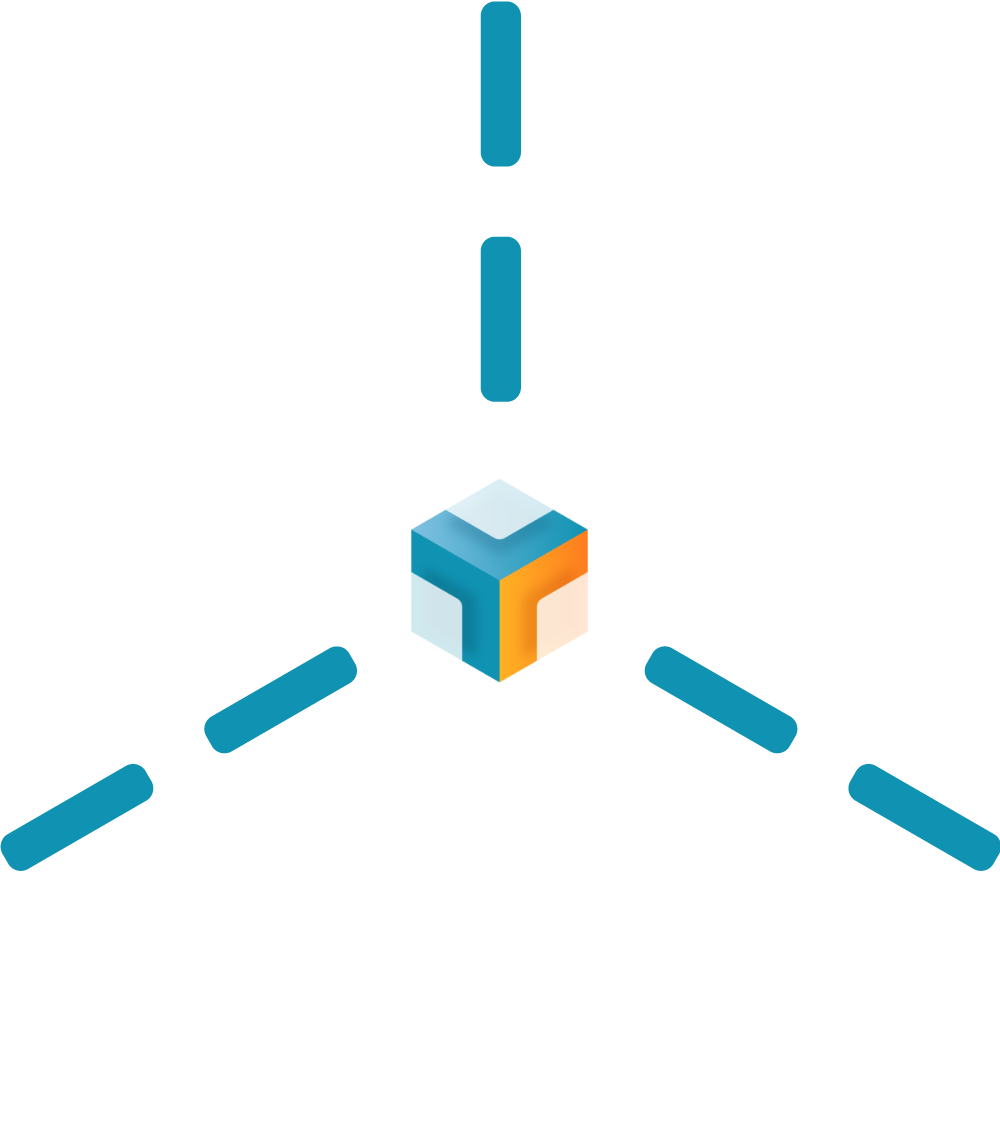
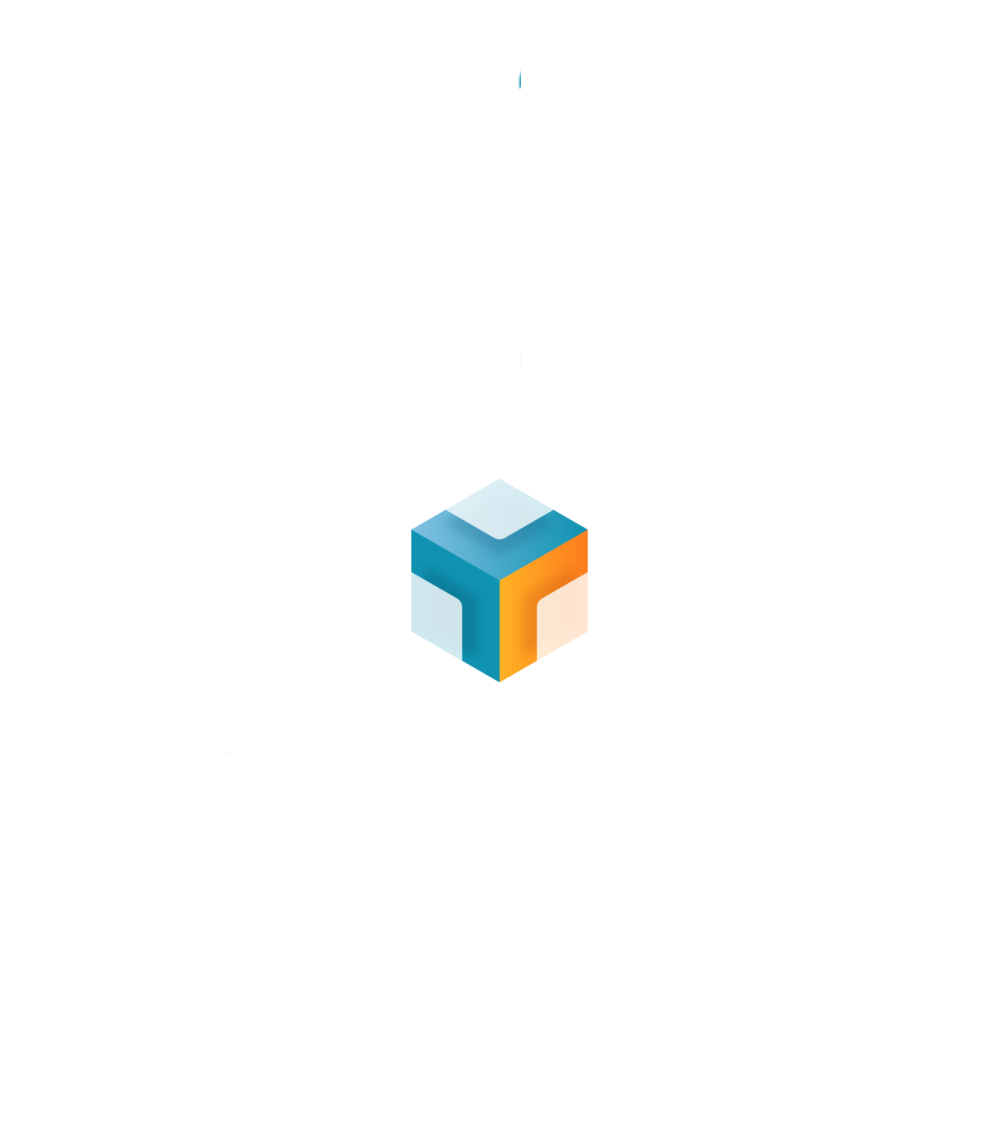
animation: add cubes animation

diff --git a/src/section/Stake.jsx b/src/section/Stake.jsx
@@ -14,11 +14,46 @@ export default function Stake() {
   return (
     <section className="mt-24 overflow-x-clip">
       <div className="md:w-11/12 w-[95%] mx-auto relative">
-        <img
+        <svg
+          className="absolute top-0 left-10 -z-10 w-96 transform -translate-x-2/4"
+          xmlns="http://www.w3.org/2000/svg"
+          width="389.108"
+          height="387.107"
+          viewBox="0 0 389.108 387.107"
+        >
+          <g transform="translate(-75 168.234)">
+            <path
+              d="M75.3,159.571a10.176,10.176,0,0,1-.3-1.5V60.8a12.15,12.15,0,0,1,.839-4.183c.134-.353.268-.681.425-1.009a12.245,12.245,0,0,1,2.25-3.344l.061-.073a11.821,11.821,0,0,1,2.553-1.946L166.246,1.605a12.134,12.134,0,0,1,12.062,0l85.117,48.638a11.822,11.822,0,0,1,2.553,1.946l.061.073a12.157,12.157,0,0,1,2.25,3.344,10.18,10.18,0,0,1,.413,1,11.951,11.951,0,0,1,.851,4.2v97.277a10.176,10.176,0,0,1-.3,1.5,11.918,11.918,0,0,1-.486,2.444,11.426,11.426,0,0,1-1.034,2.079,10.764,10.764,0,0,1-1.265,1.873,10.912,10.912,0,0,1-1.909,1.678,12.374,12.374,0,0,1-1.131.985l-85.117,48.638c-.268.158-.572.219-.851.353-.328.158-.657.28-1.009.413a10.786,10.786,0,0,1-8.342,0c-.353-.134-.681-.255-1.009-.413-.28-.134-.584-.195-.851-.353L81.128,168.629A12.374,12.374,0,0,1,80,167.644a10.914,10.914,0,0,1-1.909-1.678,10.754,10.754,0,0,1-2.784-6.4ZM245.235,81.749l-60.8,34.74v69.273l60.8-34.74Zm-85.117,34.74-60.8-34.74v69.273l60.8,34.74Zm12.16-90.334L111.673,60.8l60.6,34.643L232.88,60.8Z"
+              fill="#1092b2"
+              className="animate-pulse origin-center"
+            />
+          </g>
+          <g transform="translate(135.554 14)">
+            <path
+              d="M59.3,145.571a10.172,10.172,0,0,1-.3-1.5V46.8a12.15,12.15,0,0,1,.839-4.183c.134-.353.268-.681.425-1.009a12.247,12.247,0,0,1,2.25-3.344l.061-.073a11.822,11.822,0,0,1,2.554-1.946l85.117-48.638a12.134,12.134,0,0,1,12.062,0l85.117,48.638a11.817,11.817,0,0,1,2.554,1.946l.061.073a12.155,12.155,0,0,1,2.25,3.344,10.155,10.155,0,0,1,.413,1,11.952,11.952,0,0,1,.851,4.2v97.277a10.182,10.182,0,0,1-.3,1.5,11.923,11.923,0,0,1-.486,2.444,11.427,11.427,0,0,1-1.034,2.079,10.764,10.764,0,0,1-1.265,1.873,10.918,10.918,0,0,1-1.909,1.678,12.373,12.373,0,0,1-1.131.985l-85.117,48.638c-.268.158-.572.219-.851.353-.328.158-.657.28-1.009.413a10.786,10.786,0,0,1-8.342,0c-.353-.134-.681-.255-1.009-.413-.28-.134-.584-.195-.851-.353L65.128,154.629A12.367,12.367,0,0,1,64,153.645a10.915,10.915,0,0,1-1.909-1.678,10.754,10.754,0,0,1-2.785-6.4ZM229.235,67.749l-60.8,34.74v69.273l60.8-34.74Zm-85.117,34.74-60.8-34.74v69.273l60.8,34.74Zm12.16-90.334L95.673,46.8l60.6,34.643,60.6-34.643Z"
+              fill="#81c1e1"
+              className="animate-pulse origin-center"
+            />
+          </g>
+          <path
+            d="M89.16,76.117a12.148,12.148,0,0,0,12.16-12.16V15.319h48.638a12.16,12.16,0,1,0,0-24.319H89.16A12.148,12.148,0,0,0,77,3.16v60.8A12.148,12.148,0,0,0,89.16,76.117Z"
+            className="arrow-transition"
+            // transform="translate(8.117 69.798)"
+            fill="#fe7d1e"
+          />
+          <path
+            d="M78.16,91.117h60.8a12.148,12.148,0,0,0,12.16-12.16V18.16a12.16,12.16,0,0,0-24.319,0V66.8H78.16a12.16,12.16,0,1,0,0,24.319Z"
+            className="arrow-transition arrow-transition-2"
+            // transform="translate(152.873 237.192)"
+            fill="#fe7d1e"
+          />
+        </svg>
+
+        {/* <img
           className="absolute top-0 left-10 -z-10 w-96 transform -translate-x-2/4"
           src={boxs}
           alt="..."
-        />
+        /> */}
 
         <div className="pt-36">
           <div className="rounded-2xl bg-slate-200 bg-opacity-60 backdrop-blur-sm px-4 pb-4 pt-16 md:p-16">

diff --git a/src/section/Work.jsx b/src/section/Work.jsx
@@ -10,7 +10,7 @@ export default function Work() {
     <section className="mt-24 overflow-x-clip">
       <div className="md:w-11/12 w-[95%] mx-auto relative">
         <img
-          className="absolute top-0 right-10 -z-10 w-96 transform translate-x-2/4"
+          className="work-transition absolute top-0 right-10 -z-10 w-96 transform"
           src={workbg}
           alt=""
         />
@@ -26,7 +26,7 @@ export default function Work() {
               <div className="col w-full md:w-4/12 py-1 md:p-1">
                 <div className="card w-full h-full card-body text-center rounded-lg border-blue-100 hover:border-blue-300 hover:shadow-lg transition-colors transition-colors border-2">
                   <div className="h-[100px] text-center flex items-center justify-center">
-                    <img alt="..."src={asthands} />
+                    <img alt="..." src={asthands} />
                   </div>
                   <h5 className="text-xl mt-4 mb-3 font-medium text-primary">
                     Strategic partnership
@@ -41,7 +41,7 @@ export default function Work() {
               <div className="col w-full md:w-4/12 py-1 md:p-1">
                 <div className="card w-full h-full card-body text-center rounded-lg border-blue-100 hover:border-blue-300 hover:shadow-lg transition-colors transition-colors border-2">
                   <div className="h-[100px] text-center flex items-center justify-center">
-                    <img alt="..."src={astmessage} />
+                    <img alt="..." src={astmessage} />
                   </div>
                   <h5 className="text-xl mt-4 mb-3 font-medium text-secondary">
                     Advisory services
@@ -56,7 +56,7 @@ export default function Work() {
               <div className="col w-full md:w-4/12 py-1 md:p-1">
                 <div className="card w-full h-full card-body text-center rounded-lg border-blue-100 hover:border-blue-300 hover:shadow-lg transition-colors transition-colors border-2">
                   <div className="h-[100px] text-center flex items-center justify-center">
-                    <img alt="..."src={astsettings} />
+                    <img alt="..." src={astsettings} />
                   </div>
                   <h5 className="text-xl mt-4 mb-3 font-medium text-primary">Influencer Network</h5>
                   <p className="card-text text-xs">

diff --git a/src/App.scss b/src/App.scss
@@ -55,3 +55,48 @@ header {
     /* font-family: Montserrat-Medium; */
   }
 }
+
+@keyframes upanddown {
+  from {
+    transform: translate(50%, 25%);
+  }
+  to {
+    transform: translate(50%, -25%);
+  }
+}
+
+.work-transition {
+  animation: upanddown 4s ease-in-out alternate both infinite;
+}
+
+@keyframes test {
+  from {
+    transform: translate(8.117px, 69.798px);
+  }
+  to {
+    transform: translate(152.873px, 237.192px);
+  }
+}
+
+.arrow-transition {
+  position: relative;
+  display: inline-block;
+  animation: test 4s ease-in-out alternate both infinite;
+}
+
+.arrow-transition-2 {
+  animation-direction: alternate-reverse;
+}
+
+@keyframes test {
+  from {
+    transform: translate(8.117px, 69.798px);
+  }
+  to {
+    transform: translate(152.873px, 237.192px);
+  }
+}
+
+.animate-spin.spin-fan {
+  animation-duration: 60s !important;
+}

diff --git a/src/section/Portfolio.jsx b/src/section/Portfolio.jsx
@@ -1,5 +1,6 @@
 import React from "react";
 
+import fan from "../assets/spin-fan.png";
 import Group from "../assets/Group.png";
 import bounty from "../assets/ast/bounty.png";
 import bunty from "../assets/ast/bunty.png";
@@ -14,6 +15,9 @@ export default function Portfolio() {
           src={Group}
           alt="..."
         />
+        <div className="absolute top-0 right-10 -z-10 w-auto transform translate-x-2/4 translate-y-96">
+          <img className='animate-spin spin-fan' src={fan} alt="..." />
+        </div>
 
         <div className="pt-36">
           <div className="rounded-2xl bg-slate-200 bg-opacity-60 backdrop-blur-sm px-4 pb-4 pt-16 md:p-16">
